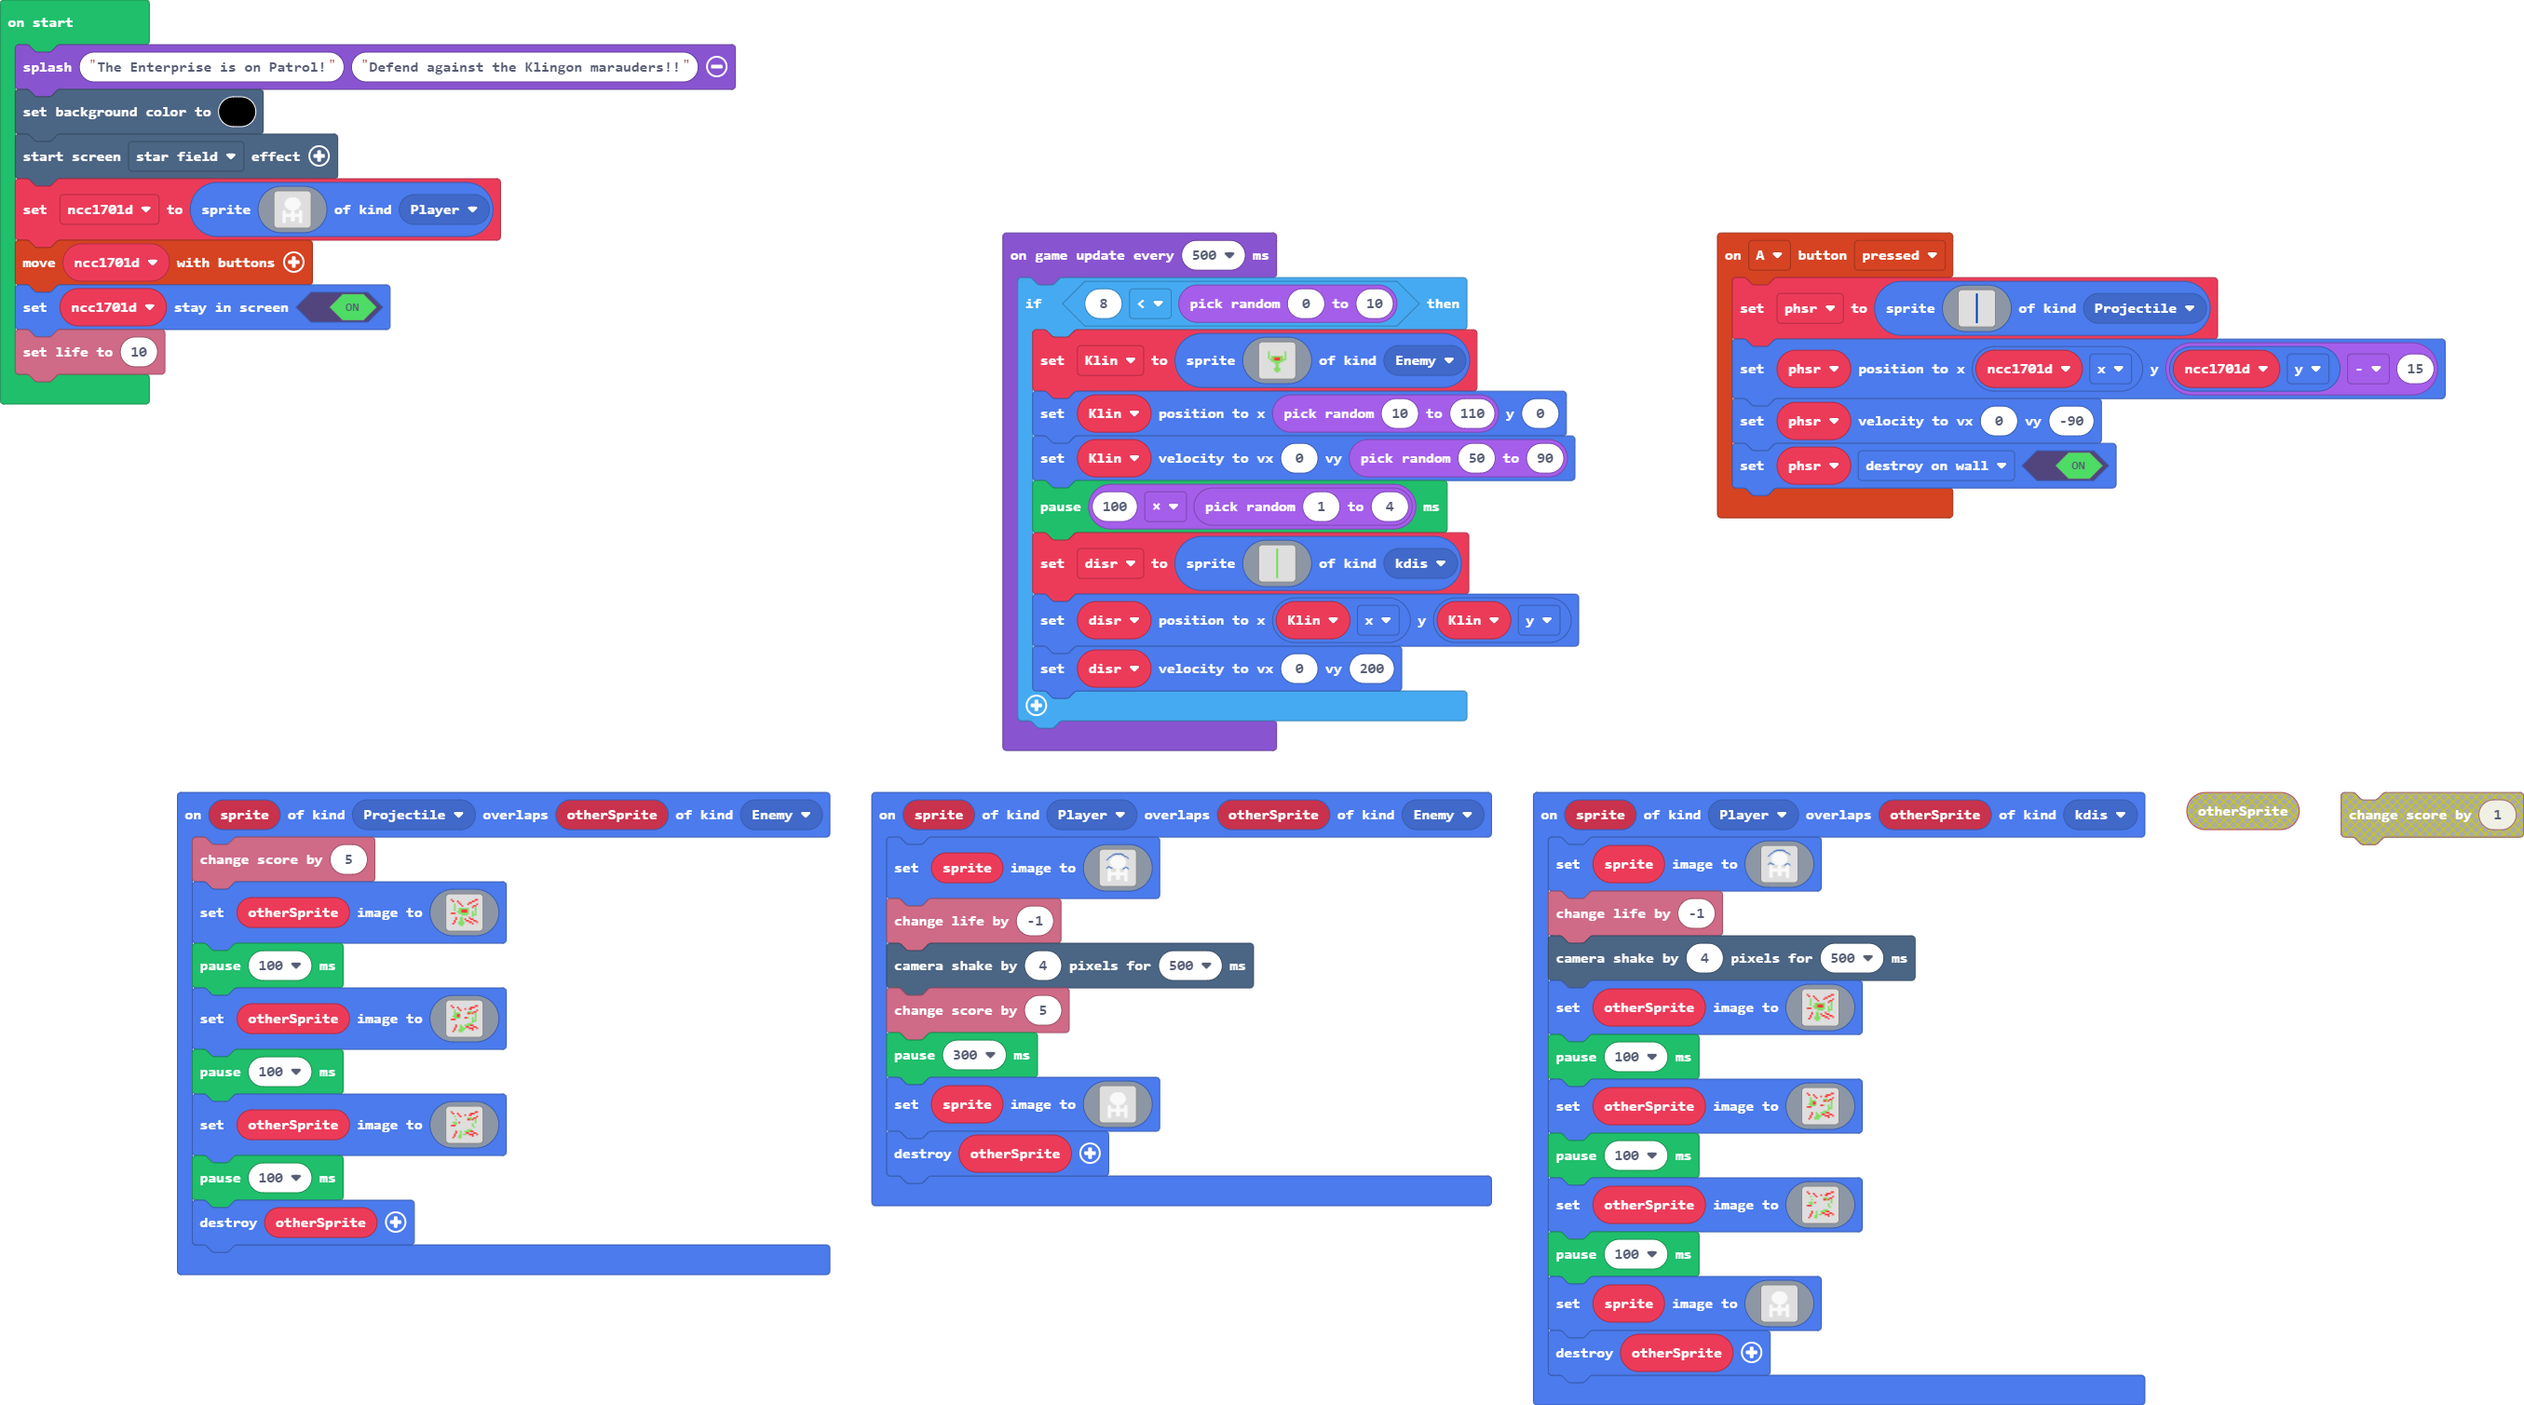
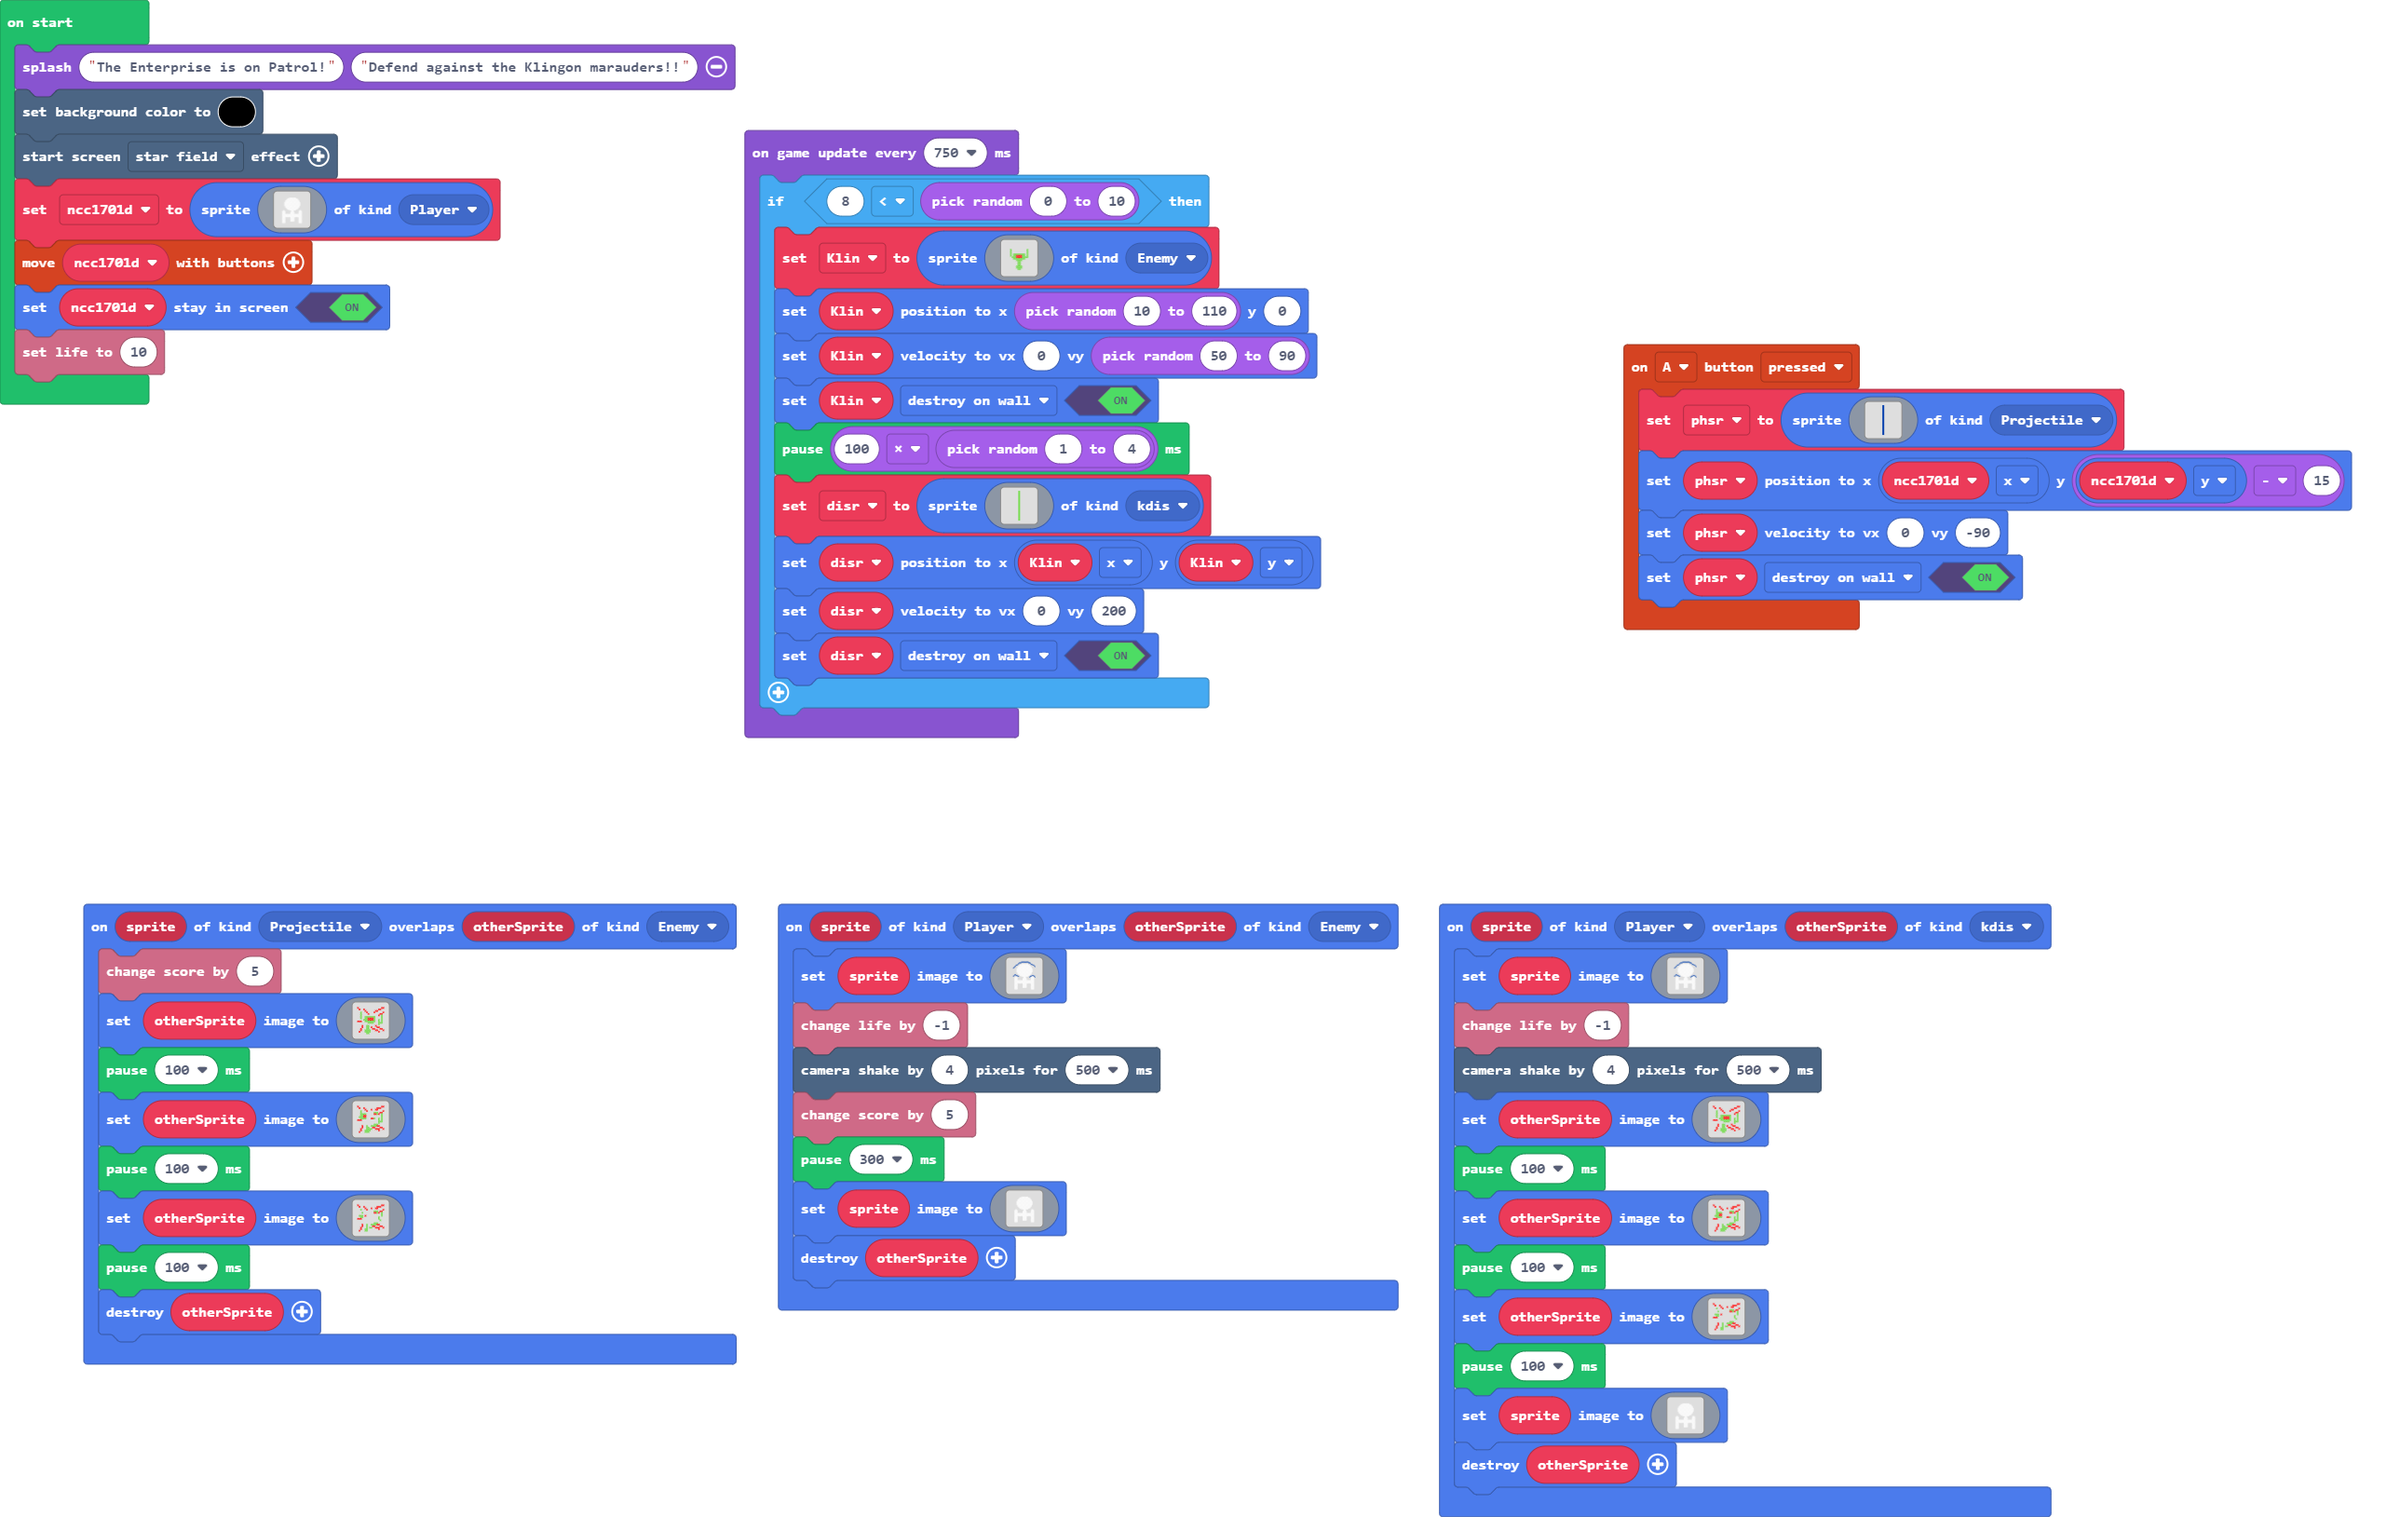
Update main.blocks, main.ts

diff --git a/main.ts b/main.ts
@@ -50,14 +50,16 @@ ncc1701d = sprites.create(assets.image`Enterprise`, SpriteKind.Player)
 controller.moveSprite(ncc1701d)
 ncc1701d.setStayInScreen(true)
 info.setLife(10)
-game.onUpdateInterval(500, function () {
+game.onUpdateInterval(750, function () {
     if (8 < randint(0, 10)) {
         Klin = sprites.create(assets.image`Klingon`, SpriteKind.Enemy)
         Klin.setPosition(randint(10, 110), 0)
         Klin.setVelocity(0, randint(50, 90))
+        Klin.setFlag(SpriteFlag.DestroyOnWall, true)
         pause(100 * randint(1, 4))
         disr = sprites.create(assets.image`disruptor`, SpriteKind.kdis)
         disr.setPosition(Klin.x, Klin.y)
         disr.setVelocity(0, 200)
+        disr.setFlag(SpriteFlag.DestroyOnWall, true)
     }
 })
